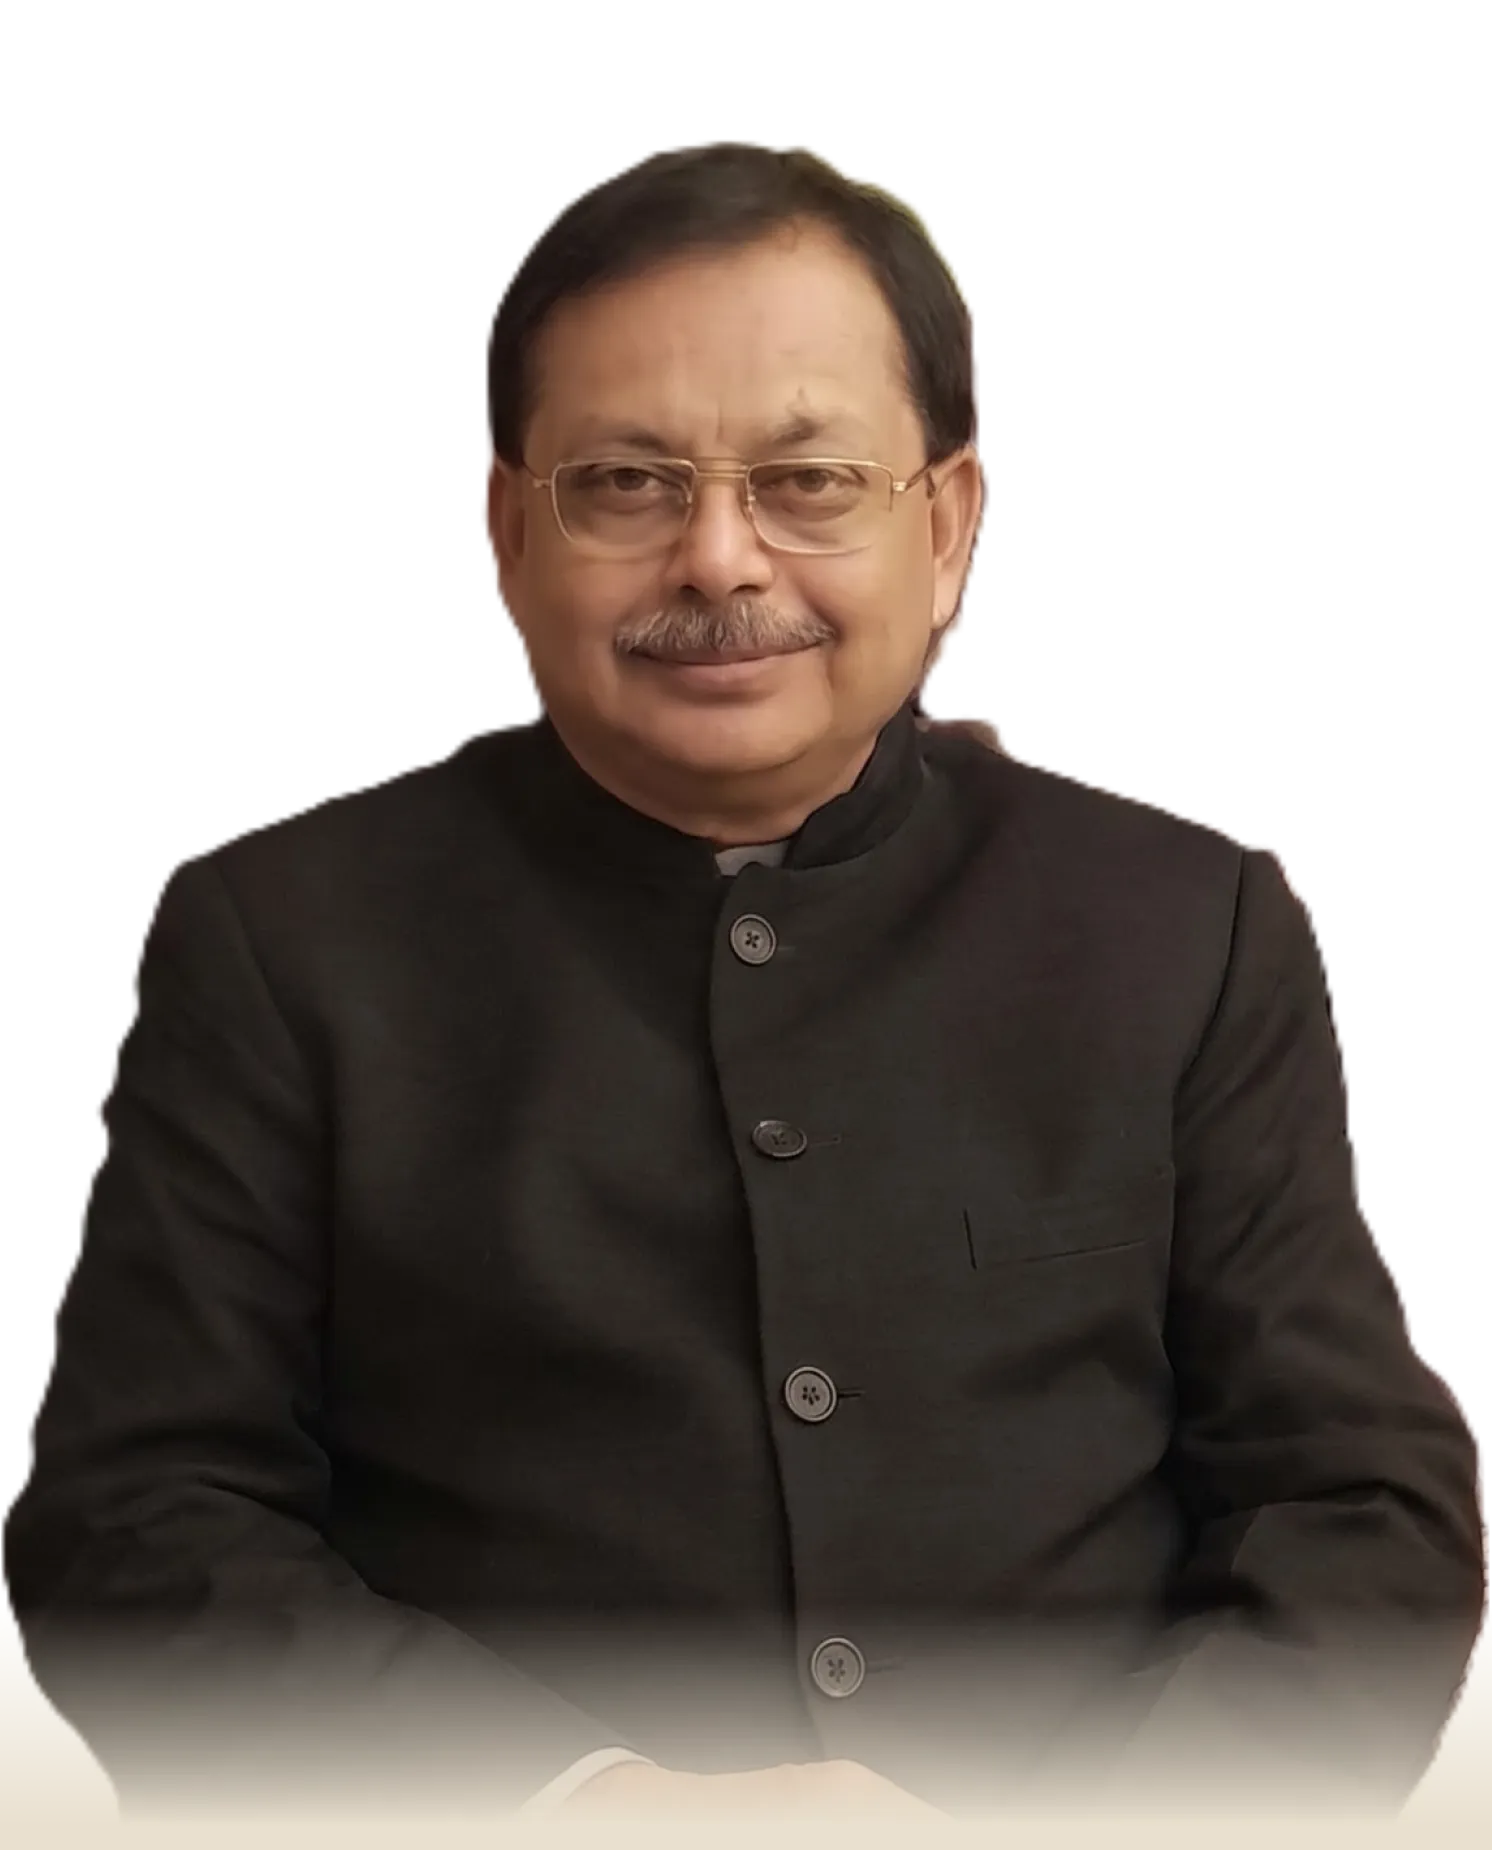
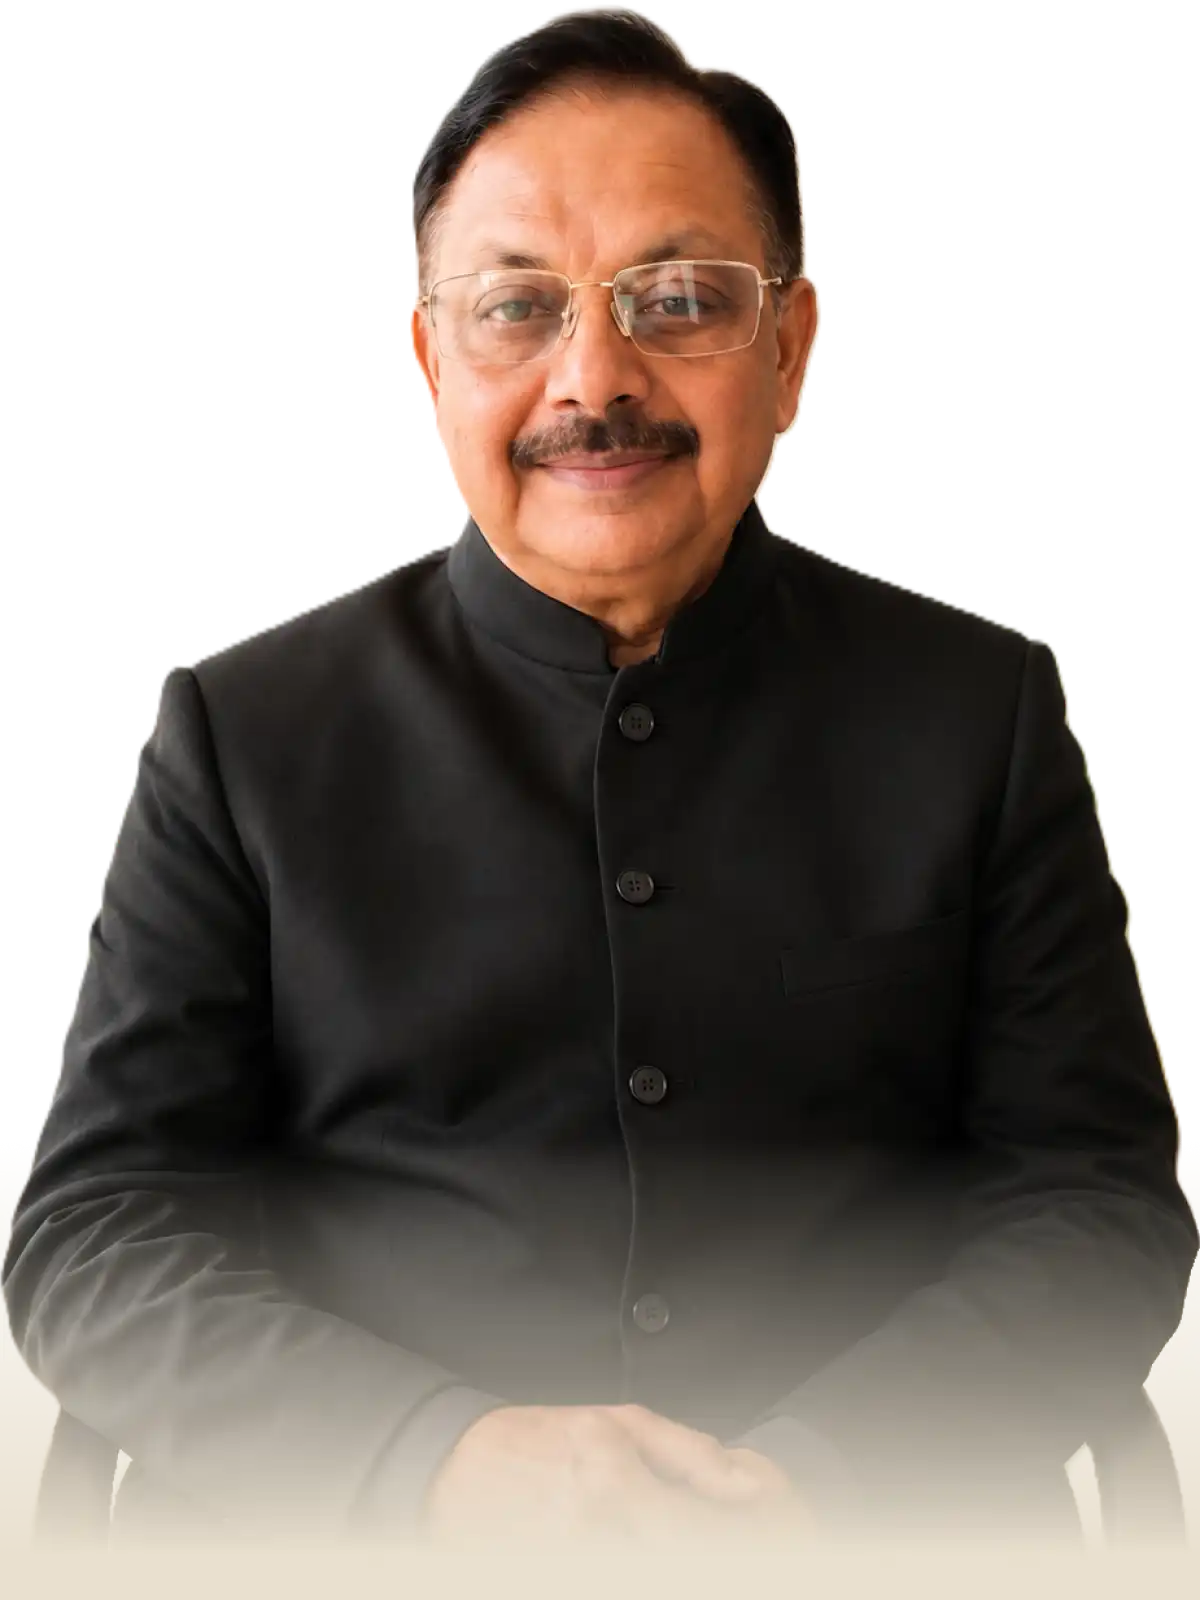
fix: dr rastogi image updated

diff --git a/next.config.ts b/next.config.ts
@@ -4,8 +4,9 @@ import path from "path";
 const nextConfig: NextConfig = {
   poweredByHeader: false,
   turbopack: {
-    root: path.resolve(__dirname),
+    root: path.resolve("."),
   },
+  transpilePackages: ["lucide-react"],
   images: {
     formats: ['image/avif', 'image/webp'],
     deviceSizes: [640, 750, 828, 1080, 1200, 1410, 1440, 1920, 2048, 3840],

diff --git a/memory.md b/memory.md
@@ -1378,8 +1378,15 @@ _(Append new actions below this line as the project progresses)_
   - **Off-Screen Image Loading Refinement ([`AgingSlidesSection.tsx`](file:///c:/Users/priya/OneDrive/Desktop/cliqk%20Projects/HoL/src/components/home/AgingSlidesSection.tsx)):** Removed `priority` from background slide images so network bandwidth is 100% focused on rendering the Hero LCP element.
   - **Hero LCP Streamline ([`Hero.tsx`](file:///c:/Users/priya/OneDrive/Desktop/cliqk%20Projects/HoL/src/components/home/Hero.tsx)):** Removed placeholder blur base64 decoding overhead for instantaneous First Contentful Paint.
   - **Deferred Smooth Scroll Loop ([`LenisProvider.tsx`](file:///c:/Users/priya/OneDrive/Desktop/cliqk%20Projects/HoL/src/components/layout/LenisProvider.tsx)):** Deferred Lenis initialization to `requestIdleCallback` to free the main thread CPU and drop Total Blocking Time (TBT).
-  - **Turbopack Config Cleanup ([`next.config.ts`](file:///c:/Users/priya/OneDrive/Desktop/cliqk%20Projects/HoL/next.config.ts)):** Set absolute turbopack root using `path.resolve(__dirname)` to eliminate build warnings.
+  - **Turbopack Config Cleanup ([`next.config.ts`](file:///c:/Users/priya/OneDrive/Desktop/cliqk%20Projects/HoL/next.config.ts)):** Configured turbopack root and transpilePackages.
 - **Why:** Delivers lightning-fast page loading, eliminates network congestion, and brings LCP, Speed Index, and TBT into the green zone.
+
+**218. Resolved Dev Server Crash & Turbopack Root Resolution Issue**
+- **What:** Diagnosed and fixed the development server failure:
+  - **Root Cause 1 (Turbopack Workspace Root Inference):** Turbopack automatically detected an extraneous `package-lock.json` in the user's home directory (`C:\Users\priya\`), incorrectly selecting it as the monorepo root. This caused Turbopack to watch hundreds of thousands of files across the user profile and fail to resolve modules like `lucide-react`.
+  - **Root Cause 2 (Zombie Node Processes):** Orphaned background Node processes were holding port 3000 and throwing broken pipe exceptions (`EPIPE`).
+  - **The Fix:** Configured `turbopack: { root: path.resolve(".") }` and added `transpilePackages: ["lucide-react"]` in [`next.config.ts`](file:///c:/Users/priya/OneDrive/Desktop/cliqk%20Projects/HoL/next.config.ts). Terminated zombie processes on port 3000 and purged the `.next` compilation cache.
+- **Why:** Restores clean, instant Turbopack compilation and ensures the development server runs smoothly on `http://localhost:3000` with 0 errors.
 
 
 
